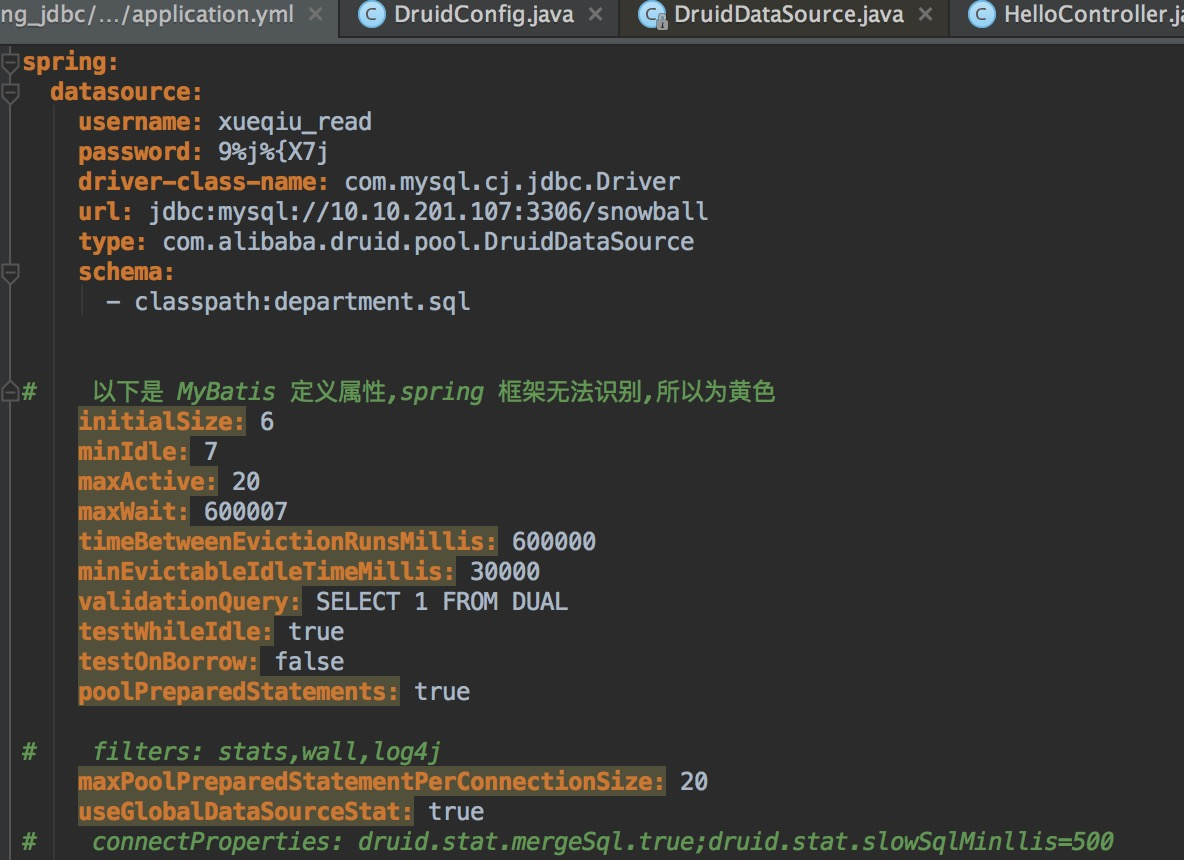
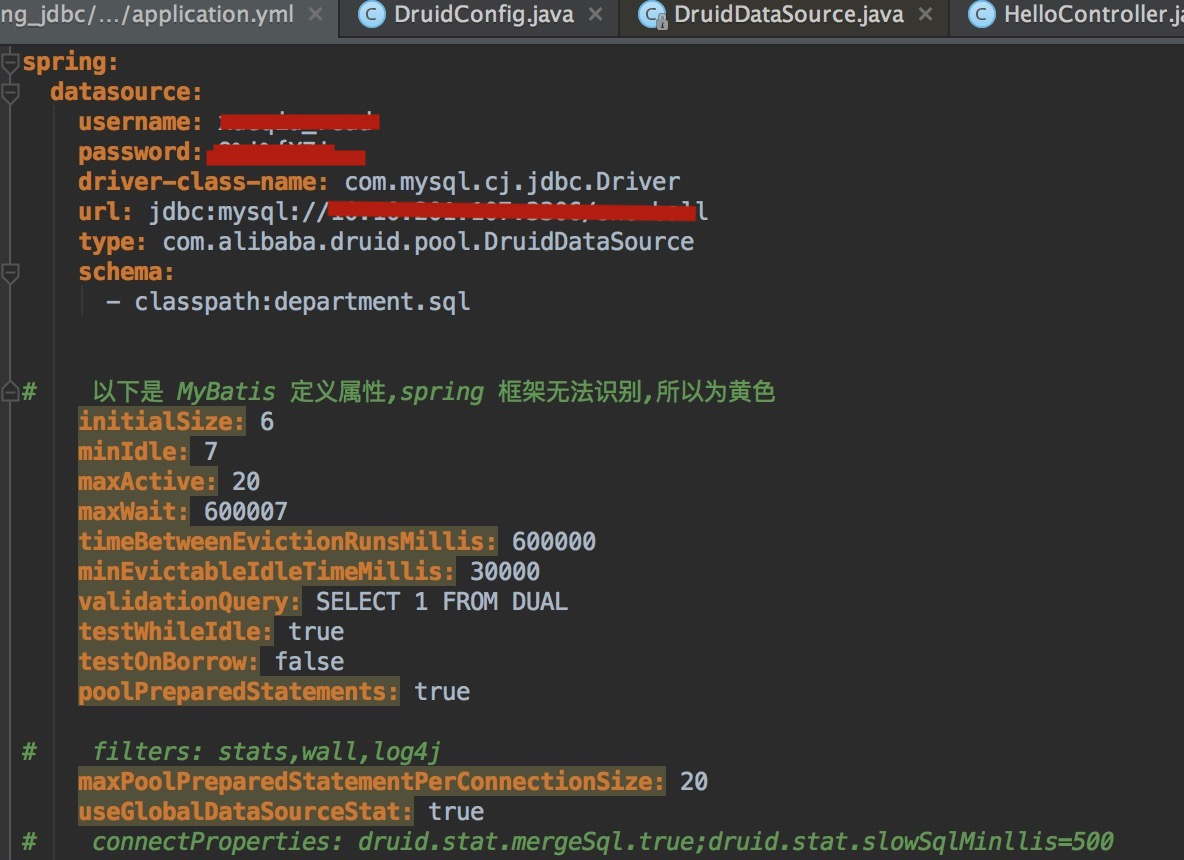
20200402

Changed region(s): [[0.1562, 0.1209, 0.5938, 0.2721]]

diff --git a/my/天津/中考.md b/my/天津/中考.md
@@ -25,7 +25,7 @@
 | 560        | 天津一中                 | 和平   | 市内六区     | 市九所 |
 | 559        | 南开中学                 | 南开   | 市内六区     | 市九所 |
 | 556        | 耀华中学                 | 和平   | 市内六区     | 市九所 |
-| 555        | ==英华国际学校(实验班)== |        |              | 民办   |
+| 555        | ==英华国际学校(实验班)== | 武清   | ==全市==     | 民办   |
 | 552        | 新华中学                 | 河西   | 市内六区     | 市九所 |
 | 549        | 实验中学                 | 河西   | 市内六区     | 市九所 |
 | 547        | 第二十中学               | 和平   | 市内六区     | 公办   |
@@ -169,55 +169,57 @@
 
 # 河西区初中和小学
 
+http://mini.eastday.com/mobile/191119233637443.html#
+
 ## 民办初中
 
-| 学校         | 依托学校     | 2018年招生人数 | 学费     |
-| ------------ | ------------ | -------------- | -------- |
-| 自立中学     | 第四中学     | 300            | 8000/年  |
-| 培杰中学     | 第四十二中学 | 300            | 8000/年  |
-| 新华圣功学校 | 新华中学     | 160            | 12000/年 |
-| 实验求学校   | 实验中学     | 160            | 12000/年 |
-| 汇德学校     | 北师大附中   | 160            | 12000/年 |
+| 学校           | 依托学校     | 2018年招生人数 | 学费     |
+| -------------- | ------------ | -------------- | -------- |
+| **1 自立中学** | 第四中学     | 300            | 8000/年  |
+| **2 培杰中学** | 第四十二中学 | 300            | 8000/年  |
+| 新华圣功学校   | 新华中学     | 160            | 12000/年 |
+| 实验求学校     | 实验中学     | 160            | 12000/年 |
+| 汇德学校       | 北师大附中   | 160            | 12000/年 |
 
 ## 公办初中和小学
 
-| 学区     | 公立初中               | 对应小学                            |
-| -------- | ---------------------- | ----------------------------------- |
-| 第一学区 | 新华中学               | 栋楼小学                            |
-| 第一学区 | 海河中学               | 闽侯路小学                          |
-| 第一学区 | 卓群中学               | 湘江道小学                          |
-| 第一学区 | 佟楼中学               | 台湾路小学                          |
-| 第一学区 |                        | 上海道小学                          |
-| 第一学区 |                        | 四号楼小学                          |
-| 第一学区 |                        | 恩德里小学                          |
-| 第一学区 |                        | 华夏未来艺术小学                    |
-|          |                        |                                     |
-| 第二学区 | 实验中学               | 马场道小学                          |
-| 第二学区 | 第四十一中学           | 平山道小学                          |
-| 第二学区 | 梧桐中学               | 天津师范大学附属小学                |
-| 第二学区 | 梅江中学               | 梧桐小学                            |
-| 第二学区 | 滨湖中学               | 中山小学                            |
-| 第二学区 | 环湖中学               | 滨湖小学                            |
-| 第二学区 |                        | 南湖小学                            |
-| 第二学区 |                        | 友谊路小学                          |
-| 第二学区 |                        | 卫东路小学                          |
-| 第二学区 |                        | 中心小学(3个小区)                   |
-| 第二学区 |                        | 同望小学                            |
-| 第二学区 |                        | 名都小学                            |
-| 第二学区 |                        | 水晶小学                            |
-| 第二学区 |                        | 纯真小学                            |
-|          |                        |                                     |
-| 第三学区 | 第四中学               | 华江里小学                          |
-| 第三学区 | 第四十二中学           | 陵水道小学                          |
-| 第三学区 | 北京师范大学天津附中学 | 新会道小学                          |
-| 第三学区 | 微山路中学             | 东海里小学                          |
-| 第三学区 | 枫林路中学             | 珠江道小学                          |
-| 第三学区 | 双水道中学             | 三水道小学                          |
-| 第三学区 | 第二新华中学           | 灰堆第一小学                        |
-| 第三学区 |                        | 土城小学                            |
-| 第三学区 |                        | 天津小学                            |
-| 第三学区 |                        | 天津师范大学第二附属小学（2个校区） |
-| 第三学区 |                        | 梅苑小学                            |
+| 学区     | 公立初中                              | 对应小学                            |
+| -------- | ------------------------------------- | ----------------------------------- |
+| 第一学区 | **5 新华中学**（市五所）              | 栋楼小学                            |
+| 第一学区 | **8 海河中学**                        | 闽侯路小学                          |
+| 第一学区 | **10 佟楼中学**                       | 湘江道小学                          |
+| 第一学区 | **16 卓群中学**                       | 台湾路小学                          |
+| 第一学区 |                                       | 上海道小学                          |
+| 第一学区 |                                       | 四号楼小学                          |
+| 第一学区 |                                       | 恩德里小学                          |
+| 第一学区 |                                       | 华夏未来艺术小学                    |
+|          |                                       |                                     |
+| 第二学区 | **4 实验中学**                        | 马场道小学                          |
+| 第二学区 | **7 梧桐中学**                        | 平山道小学                          |
+| 第二学区 | **11 滨湖中学**                       | 天津师范大学附属小学                |
+| 第二学区 | **12 第四十一中学**                   | 梧桐小学                            |
+| 第二学区 | **14 环湖中学**                       | 中山小学                            |
+| 第二学区 | **17 梅江中学**                       | 滨湖小学                            |
+| 第二学区 |                                       | 南湖小学                            |
+| 第二学区 |                                       | 友谊路小学                          |
+| 第二学区 |                                       | 卫东路小学                          |
+| 第二学区 |                                       | 中心小学(3个小区)                   |
+| 第二学区 |                                       | 同望小学                            |
+| 第二学区 |                                       | 名都小学                            |
+| 第二学区 |                                       | 水晶小学                            |
+| 第二学区 |                                       | 纯真小学                            |
+|          |                                       |                                     |
+| 第三学区 | 3.**第四中学**                        | 华江里小学                          |
+| 第三学区 | **6 第四十二中学**                    | 陵水道小学                          |
+| 第三学区 | **9 学枫林路中学**                    | 新会道小学                          |
+| 第三学区 | **13 双水道中学**                     | 东海里小学                          |
+| 第三学区 | **15 北京师范大学天津附中**（市五所） | 珠江道小学                          |
+| 第三学区 | **18 微山路中学**                     | 三水道小学                          |
+| 第三学区 | 第二新华中学                          | 灰堆第一小学                        |
+| 第三学区 |                                       | 土城小学                            |
+| 第三学区 |                                       | 天津小学                            |
+| 第三学区 |                                       | 天津师范大学第二附属小学（2个校区） |
+| 第三学区 |                                       | 梅苑小学                            |
 
 # 南开区初中和小学
 
@@ -233,48 +235,64 @@
 
 ## 公办初中和小学
 
-| 学区 | 公立中学           | 对应小学       |
-| ---- | ------------------ | -------------- |
-| 北片 | 育红中学           | 五马路小学     |
-| 北片 | 五十中学           | 永基小学       |
-| 北片 | 南开科技实验中学   | 西营门外小学   |
-| 北片 | 崇华中学(临潼路)   | 咸阳路小学     |
-| 北片 | 四十三中           | 汾水道小学     |
-| 北片 | 南开中学           | 跃升里小学     |
-| 北片 | 崇化中学（北马路） | 中心小学       |
-| 北片 | 二十五中(青年路)   | 中营小学       |
-| 北片 |                    | 艺术小学       |
-| 北片 |                    | 科技实验小学   |
-| 北片 |                    | 前园小学       |
-| 北片 |                    | 二中心小学     |
-|      |                    |                |
-| 中片 | 六十三中           | 风湖里小学     |
-| 中片 | 师大南开附中       | 南大附小       |
-| 中片 | 天大附中           | 义兴里小学     |
-| 中片 | 南大附中           | 宜宾里小学     |
-| 中片 |                    | 川府里小学     |
-| 中片 |                    | 华夏小学       |
-| 中片 |                    | 天大附小       |
-| 中片 |                    | 长治里小学     |
-| 中片 |                    | 南开小学       |
-| 中片 |                    | 师大南开附小   |
-| 中片 |                    | 中营瑞丽小学   |
-| 中片 |                    | 东方小学       |
-|      |                    |                |
-| 南片 | 第九中学           | 新星小学       |
-| 南片 | 南开区实验学校     | 实验学校小学部 |
-| 南片 | 天津中学           | 勤敏小学       |
-| 南片 |                    | 华苑小学       |
-| 南片 |                    | 水上小学       |
-| 南片 |                    | 阳光小学       |
-| 南片 |                    | 翔宇小学       |
-| 南片 |                    | 博瀚小学       |
+| 学区 | 公立中学             | 对应小学       |
+| ---- | -------------------- | -------------- |
+| 北片 | **南开中学**         | **五马路小学** |
+| 北片 | **四十三中**         | **中营小学**   |
+| 北片 | 南开科技实验中学     | **中心小学**   |
+| 北片 | 崇华中学(临潼路)     | 咸阳路小学     |
+| 北片 | 五十中学             | 汾水道小学     |
+| 北片 | 育红中学             | 跃升里小学     |
+| 北片 | 崇化中学（北马路）   | 西营门外小学   |
+| 北片 | 二十五中(青年路)     | 永基小学       |
+| 北片 |                      | 艺术小学       |
+| 北片 |                      | 科技实验小学   |
+| 北片 |                      | 前园小学       |
+| 北片 |                      | 二中心小学     |
+|      |                      |                |
+| 中片 | 六十三中             | 风湖里小学     |
+| 中片 | 师大南开附中         | 南大附小       |
+| 中片 | 天大附中             | 义兴里小学     |
+| 中片 | 南大附中             | 宜宾里小学     |
+| 中片 |                      | 川府里小学     |
+| 中片 |                      | 华夏小学       |
+| 中片 |                      | 天大附小       |
+| 中片 |                      | 长治里小学     |
+| 中片 |                      | 南开小学       |
+| 中片 |                      | 师大南开附小   |
+| 中片 |                      | 中营瑞丽小学   |
+| 中片 |                      | 东方小学       |
+|      |                      |                |
+| 南片 | 第九中学             | 新星小学       |
+| 南片 | 南开区实验学校       | 实验学校小学部 |
+| 南片 | 天津中学             | 勤敏小学       |
+| 南片 | 师范大学附属实验中学 | 华苑小学       |
+| 南片 |                      | 水上小学       |
+| 南片 |                      | 阳光小学       |
+| 南片 |                      | 翔宇小学       |
+| 南片 |                      | 博瀚小学       |
 
 南开区北片买房在择校时还是有一定优势的，当然房价也相对更贵一些。
 
 
 
 ![[图]](images/640.jpeg)
+
+初中排名
+
+|      |          |              |
+| ---- | -------- | ------------ |
+| 1    | 南开中学 | 市直属重点校 |
+| 2    | 天津中学 | 市直属重点校 |
+| 3    | 43中     | 市重点       |
+| 4    | 109 中   | 市重点       |
+| 5    | 南大附中 | 市重点       |
+| 6    | 天大附中 | 市重点       |
+| 7    | 31中     | 市重点       |
+| 8    | 25中     | 市重点       |
+| 9    | 育红中学 | 市重点       |
+| 10   | 9中      | 市重点       |
+| 11   | 74中     | 地垫         |
 
 
 

diff --git a/java/spring_boot/spring_boot_mybatis.md b/java/spring_boot/spring_boot_mybatis.md
@@ -74,9 +74,9 @@ public class DruidConfig {
         Map<String, String> initParams = new HashMap<>();
 
         initParams.put("loginUsername", "admin");
-        initParams.put("loginPassword", "123456");
+        initParams.put("loginPassword", "admin");
         initParams.put("allow", "");// 默认允许所有访问.
-        initParams.put("deny", "192.168.15.21");
+        initParams.put("deny", "127.0.0.1");
 
         bean.setInitParameters(initParams);
         return bean;
@@ -103,10 +103,10 @@ public class DruidConfig {
 ```yml
 spring:
   datasource:
-    username: xueqiu
-    password: snowball2010233
+    username: admin
+    password: admin
     driver-class-name: com.mysql.cj.jdbc.Driver
-    url: jdbc:mysql://10.10.201.107:3306/snowball
+    url: jdbc:mysql://127.0.0.1:3306/test
     type: com.alibaba.druid.pool.DruidDataSource
 ```
 

diff --git a/work/cube.md b/work/cube.md
@@ -1,3 +1,32 @@
+# 组合比赛
+
+## redis 
+
+```shell
+# 组合标签
+./redis_blizzard.sh get "blizzard:cube_tags:2158942"
+
+# 比赛信息
+./redis_cube_genius.sh get "cube_genius:game:cube:game_info:11"
+
+# 组合调仓信息
+
+
+# rpc
+./redis_blizzard.sh get "blizzard:rebalancing:symbol:rb_id:68414672"
+
+# 组合最新调仓
+./redis_blizzard.sh get "blizzard:lastRebalancing:cube_id:969111"
+
+
+```
+
+
+
+
+
+
+
 计算组合收益：指定时间段
 
 ```mysql
@@ -43,5 +72,15 @@ LIMIT 50
 ssh 10.10.54.2
 
 grep "cubes/rebalancing/create.json" */logs/http_access.log-20200226* | grep "6416922094"
+```
+
+
+
+
+
+慢SQL 
+
+```shell
+grep -A1 "ERROR" mysql.log |sed 's/slow sql //g'| sed 's/ millis.//'  | awk -F"|" '{if(match($0,"ERROR")){ a= $5  }else{OFS="\t"; print a,$0 }}'  | grep -v '-' | sort -k1rn | more
 ```
 

diff --git a/java/spring_boot/spring_boot_jdbc.md b/java/spring_boot/spring_boot_jdbc.md
@@ -25,10 +25,10 @@
 ```yaml
 spring:
   datasource:
-    username: xueqiu_read
-    password: 9%j%{X7j
+    username: admin
+    password: admin
     driver-class-name: com.mysql.cj.jdbc.Driver
-    url: jdbc:mysql://10.10.201.107:3306/snowball
+    url: jdbc:mysql://10.10.201.107:3306/test
 ```
 
 默认是用 class com.zaxxer.hikari.HikariDataSource 作为数据源;
@@ -149,7 +149,7 @@ public class DruidConfig {
         Map<String, String> initParams = new HashMap<>();
 
         initParams.put("loginUsername", "admin");
-        initParams.put("loginPassword", "123456");
+        initParams.put("loginPassword", "admin");
         initParams.put("allow", "");// 默认允许所有访问
         // 拒绝访问
         initParams.put("deny", "192.168.15.21");

diff --git a/my/天津/高中排名.md b/my/天津/高中排名.md
@@ -1,0 +1,13 @@
+| 排名 | 学校名称             | 城区   |
+| ---- | -------------------- | ------ |
+| 1    | 天津市第一中学       | 和平区 |
+| 2    | 天津市耀华中学       | 和平区 |
+| 3    | 天津市南开中学       | 南开区 |
+| 4    | 天津市杨村第一中学   | 武清区 |
+| 5    | 天津新华中学         | 河西区 |
+| 6    | 天津实验中学         | 河西区 |
+| 7    | 宝坻区第一中学       | 宝坻区 |
+| 8    | 天津市静海县第一中学 | 静海区 |
+| 9    | 天津市第二十中学     | 和平区 |
+| 10   | 天津市第四中学       | 河西区 |
+

diff --git a/mysql/常用sql.md b/mysql/常用sql.md
@@ -45,3 +45,12 @@ alter table search_status_index drop index index_status_id_created_at;
 show tables like '%ticket%'
 ```
 
+日期
+
+```mysql
+# 
+select unix_timestamp('2016-01-02')*1000;  
+
+select from_unixtime(1451997924);  
+```
+
